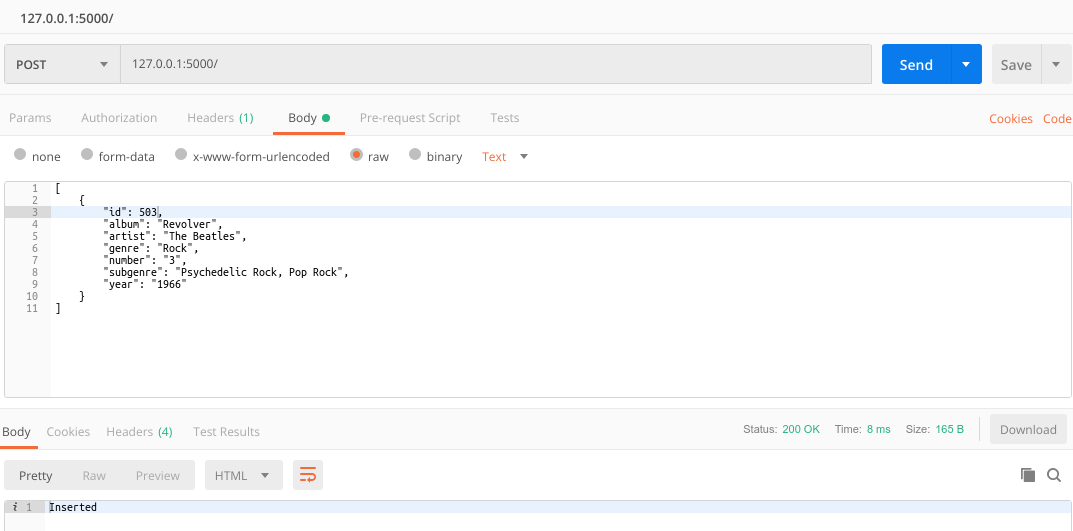
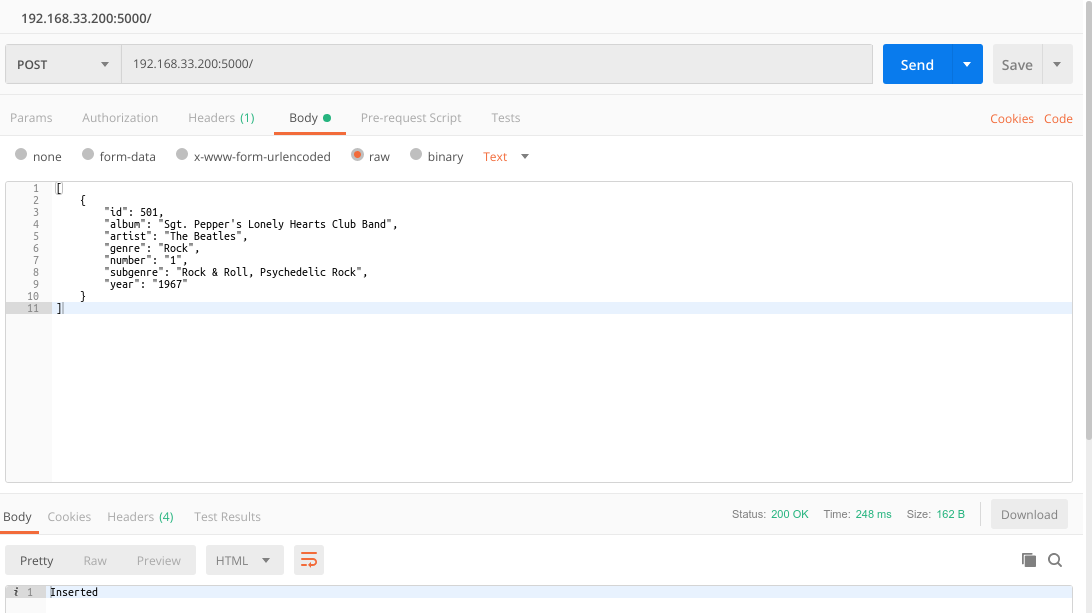
update

diff --git a/tugas-cassandra/README.md b/tugas-cassandra/README.md
@@ -37,7 +37,7 @@ Dataset diedit agar mempunyai primary key
    ```
 5. Masuk ke Cassandra Shell
    ```sh
-   cqls 192.168.33.200
+   cqls
    ```
 6. Membuat Keyspace
    ```SQL
@@ -59,31 +59,35 @@ Dataset diedit agar mempunyai primary key
 ## **API**
 1. Create
    ```sh
-   localhost:5000/
+   192.168.33.200:5000/
    #methods POST
    ```
    ![create](images/create.png)
 2. Read All
    ```sh
-   localhost:5000/
+   192.168.33.200:5000/
    #methods GET
    ```
    ![read](images/readall.png)
 3. Search by ID
    ```sh
-   localhost:5000/<id>
+   192.168.33.200:5000/<id>
    #methods GET
    ```
    ![search](images/search.png)
 4. Update
    ```sh
-   localhost:5000/<id>
+   192.168.33.200:5000/<id>
    #methods PUT
    ```
    ![update](images/update.png)
+   Cek Update
+   ![cek update](images/cekupdate.png)
 5. Delete
    ```sh
-   localhost:5000/<id>
+   192.168.33.200:5000/<id>
    #methods DELETE
    ```
-   ![delete](images/delete.png)
+   ![Delete](images/delete.png)
+   Cek Delete
+   ![cek delete](images/cekdelete.png)
